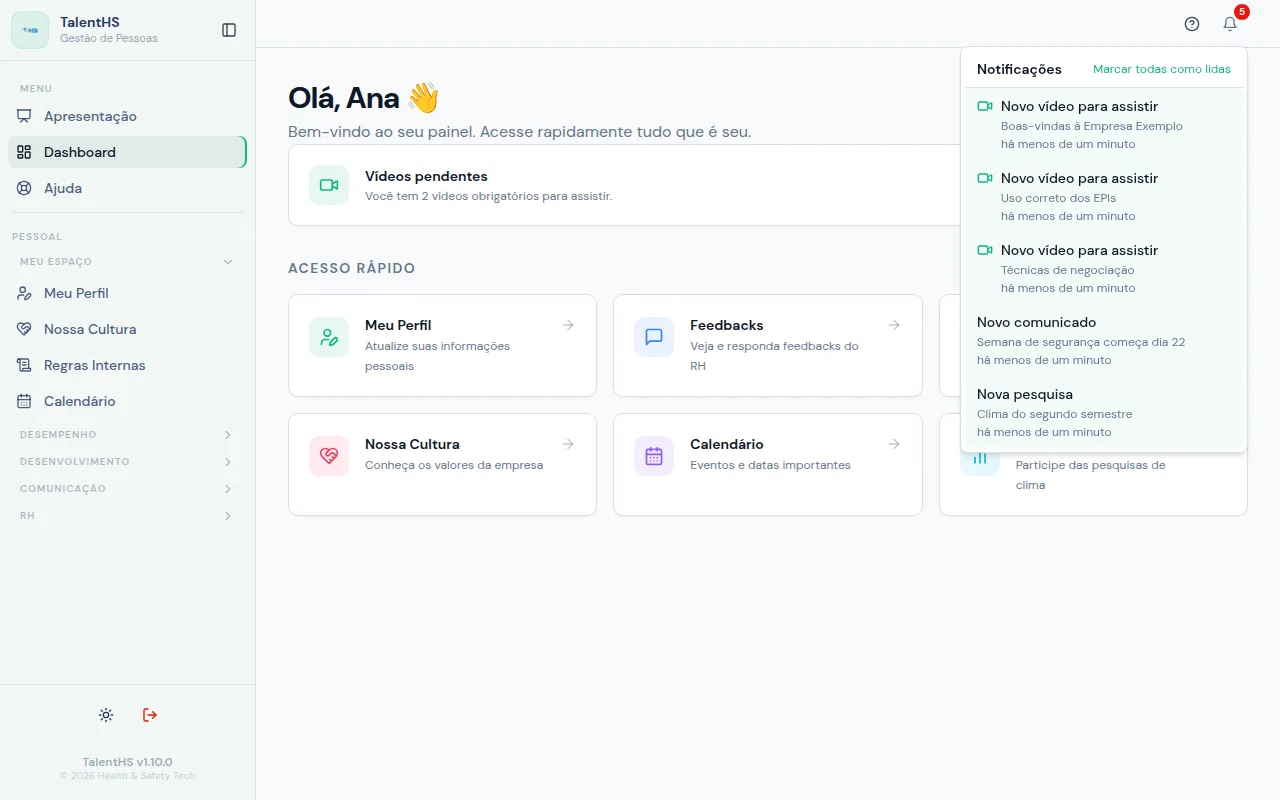
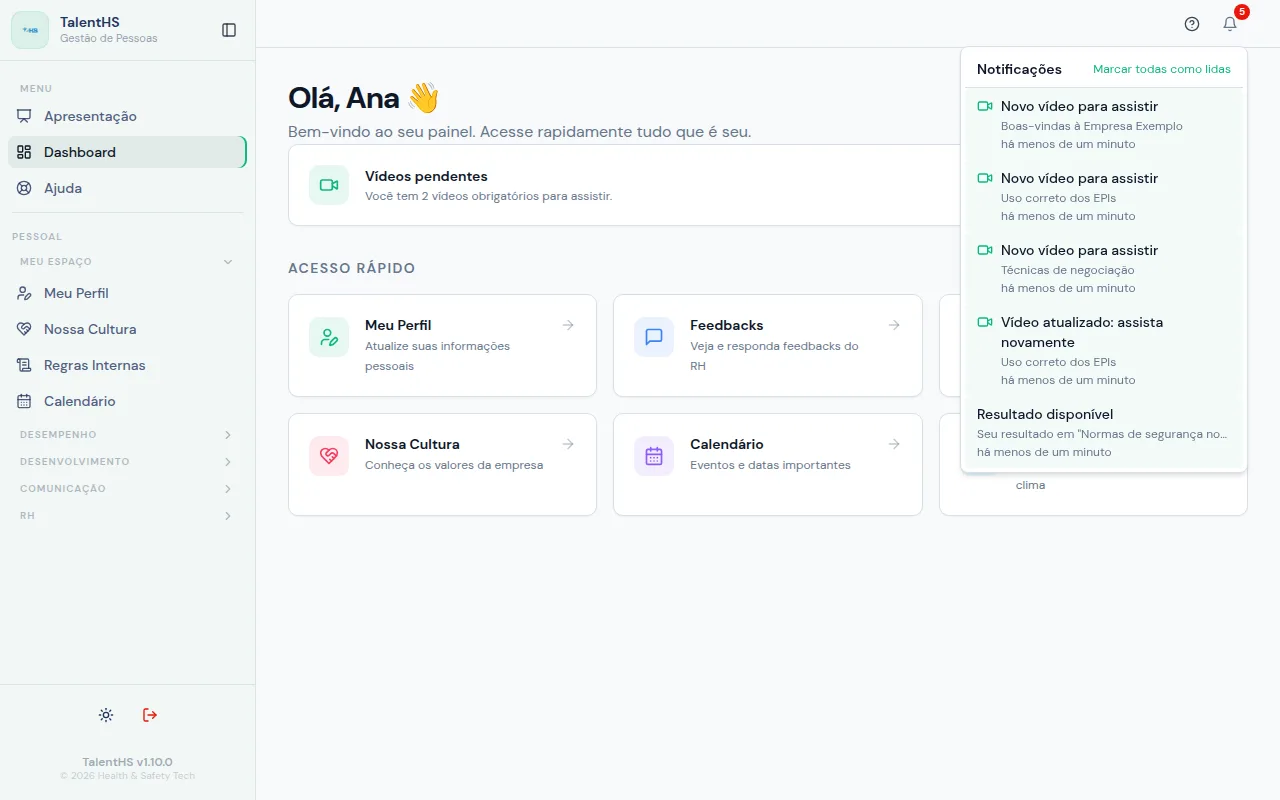
docs(ajuda): notificações reais na captura e ressalvas do calendário
A semente das capturas deixa de criar notificações de tipos que o sistema
não gera (comunicado, pesquisa, ponto) e passa a usar vídeo atualizado e
resultado de teste, com os títulos dos routers. O guia do calendário diz
que, para gestores, clicar num dia também abre Novo evento, e que Gerenciar
eventos só aparece quando já há eventos.

Changed region(s): [[0.75, 0.375, 0.9688, 0.5938]]

diff --git a/backend/scripts/seed_captures.py b/backend/scripts/seed_captures.py
@@ -698,9 +698,13 @@ class Seeder:
                                band_100=base, band_105=base * 1.05, band_110=base * 1.1)
 
     async def misc(self) -> None:
-        for key, kind, title, msg in (("ana", "announcement", "Novo comunicado", "Semana de segurança começa dia 22"),
-                                      ("ana", "survey", "Nova pesquisa", "Clima do segundo semestre"),
-                                      ("bruno", "timeclock", "Ajuste de ponto enviado", "Aguardando o RH")):
+        # Só tipos e títulos que o sistema cria (routers/videos.py e routers/custom_tests.py); os
+        # "Novo vídeo para assistir" já saem de internal_video_apply_rules, em videos().
+        for key, kind, title, msg in (
+            ("ana", "video", "Vídeo atualizado: assista novamente", "Uso correto dos EPIs"),
+            ("ana", "test_evaluated", "Resultado disponível",
+             'Seu resultado em "Normas de segurança no trabalho" está disponível.'),
+        ):
             await self.ins("notifications", user_id=self.users[key], type=kind, title=title, message=msg)
         actions = [("POST", "/auth/login", "Login"), ("PUT", "/companies/presentation", "Atualizou a apresentação"),
                    ("POST", "/communications/announcements", "Publicou comunicado"),

diff --git a/frontend/src/help/guides/meu-espaco/calendario.md b/frontend/src/help/guides/meu-espaco/calendario.md
@@ -18,7 +18,7 @@ Para planejar a semana, conferir um prazo ou ver quando é o próximo feriado.
 
 1. No menu, em **Meu Espaço**, clique em **Calendário**. A tela abre no mês atual, com o dia de hoje destacado.
 2. Para trocar de mês, use as setas ao lado dos seletores, escolha o mês e o ano nos seletores ou clique num mês em **Meses do ano**. Para voltar ao dia de hoje, clique em **Hoje**.
-3. Clique num dia para ver, logo abaixo do calendário, todos os eventos dele.
+3. Clique num dia para ver, logo abaixo do calendário, todos os eventos dele. Para gestores e administradores, esse clique também abre o formulário **Novo evento** com aquela data. Se não quiser criar um evento, clique em **Cancelar**.
 4. Confira os próximos compromissos em **Próximos eventos**, à direita.
 
 ![Calendário do mês com eventos coloridos, a lista Próximos eventos e o quadro Meses do ano](/capturas/calendario.webp)
@@ -28,7 +28,7 @@ Se você é gestor ou administrador, também pode cadastrar eventos:
 1. Clique em **Novo evento**, ou clique num dia do calendário para já começar com aquela data.
 2. Preencha **Título**, **Tipo**, **Data de início** e **Data de fim**. A **Cor** segue o tipo, mas pode ser trocada. A **Descrição (opcional)** pode ficar em branco.
 3. Clique em **Salvar**.
-4. Para alterar ou remover um evento, use os ícones de lápis e de lixeira no quadro **Gerenciar eventos**, à direita.
+4. Para alterar ou remover um evento, use os ícones de lápis e de lixeira no quadro **Gerenciar eventos**, à direita. Esse quadro só aparece quando já existe algum evento cadastrado.
 
 ## O que acontece depois
 
